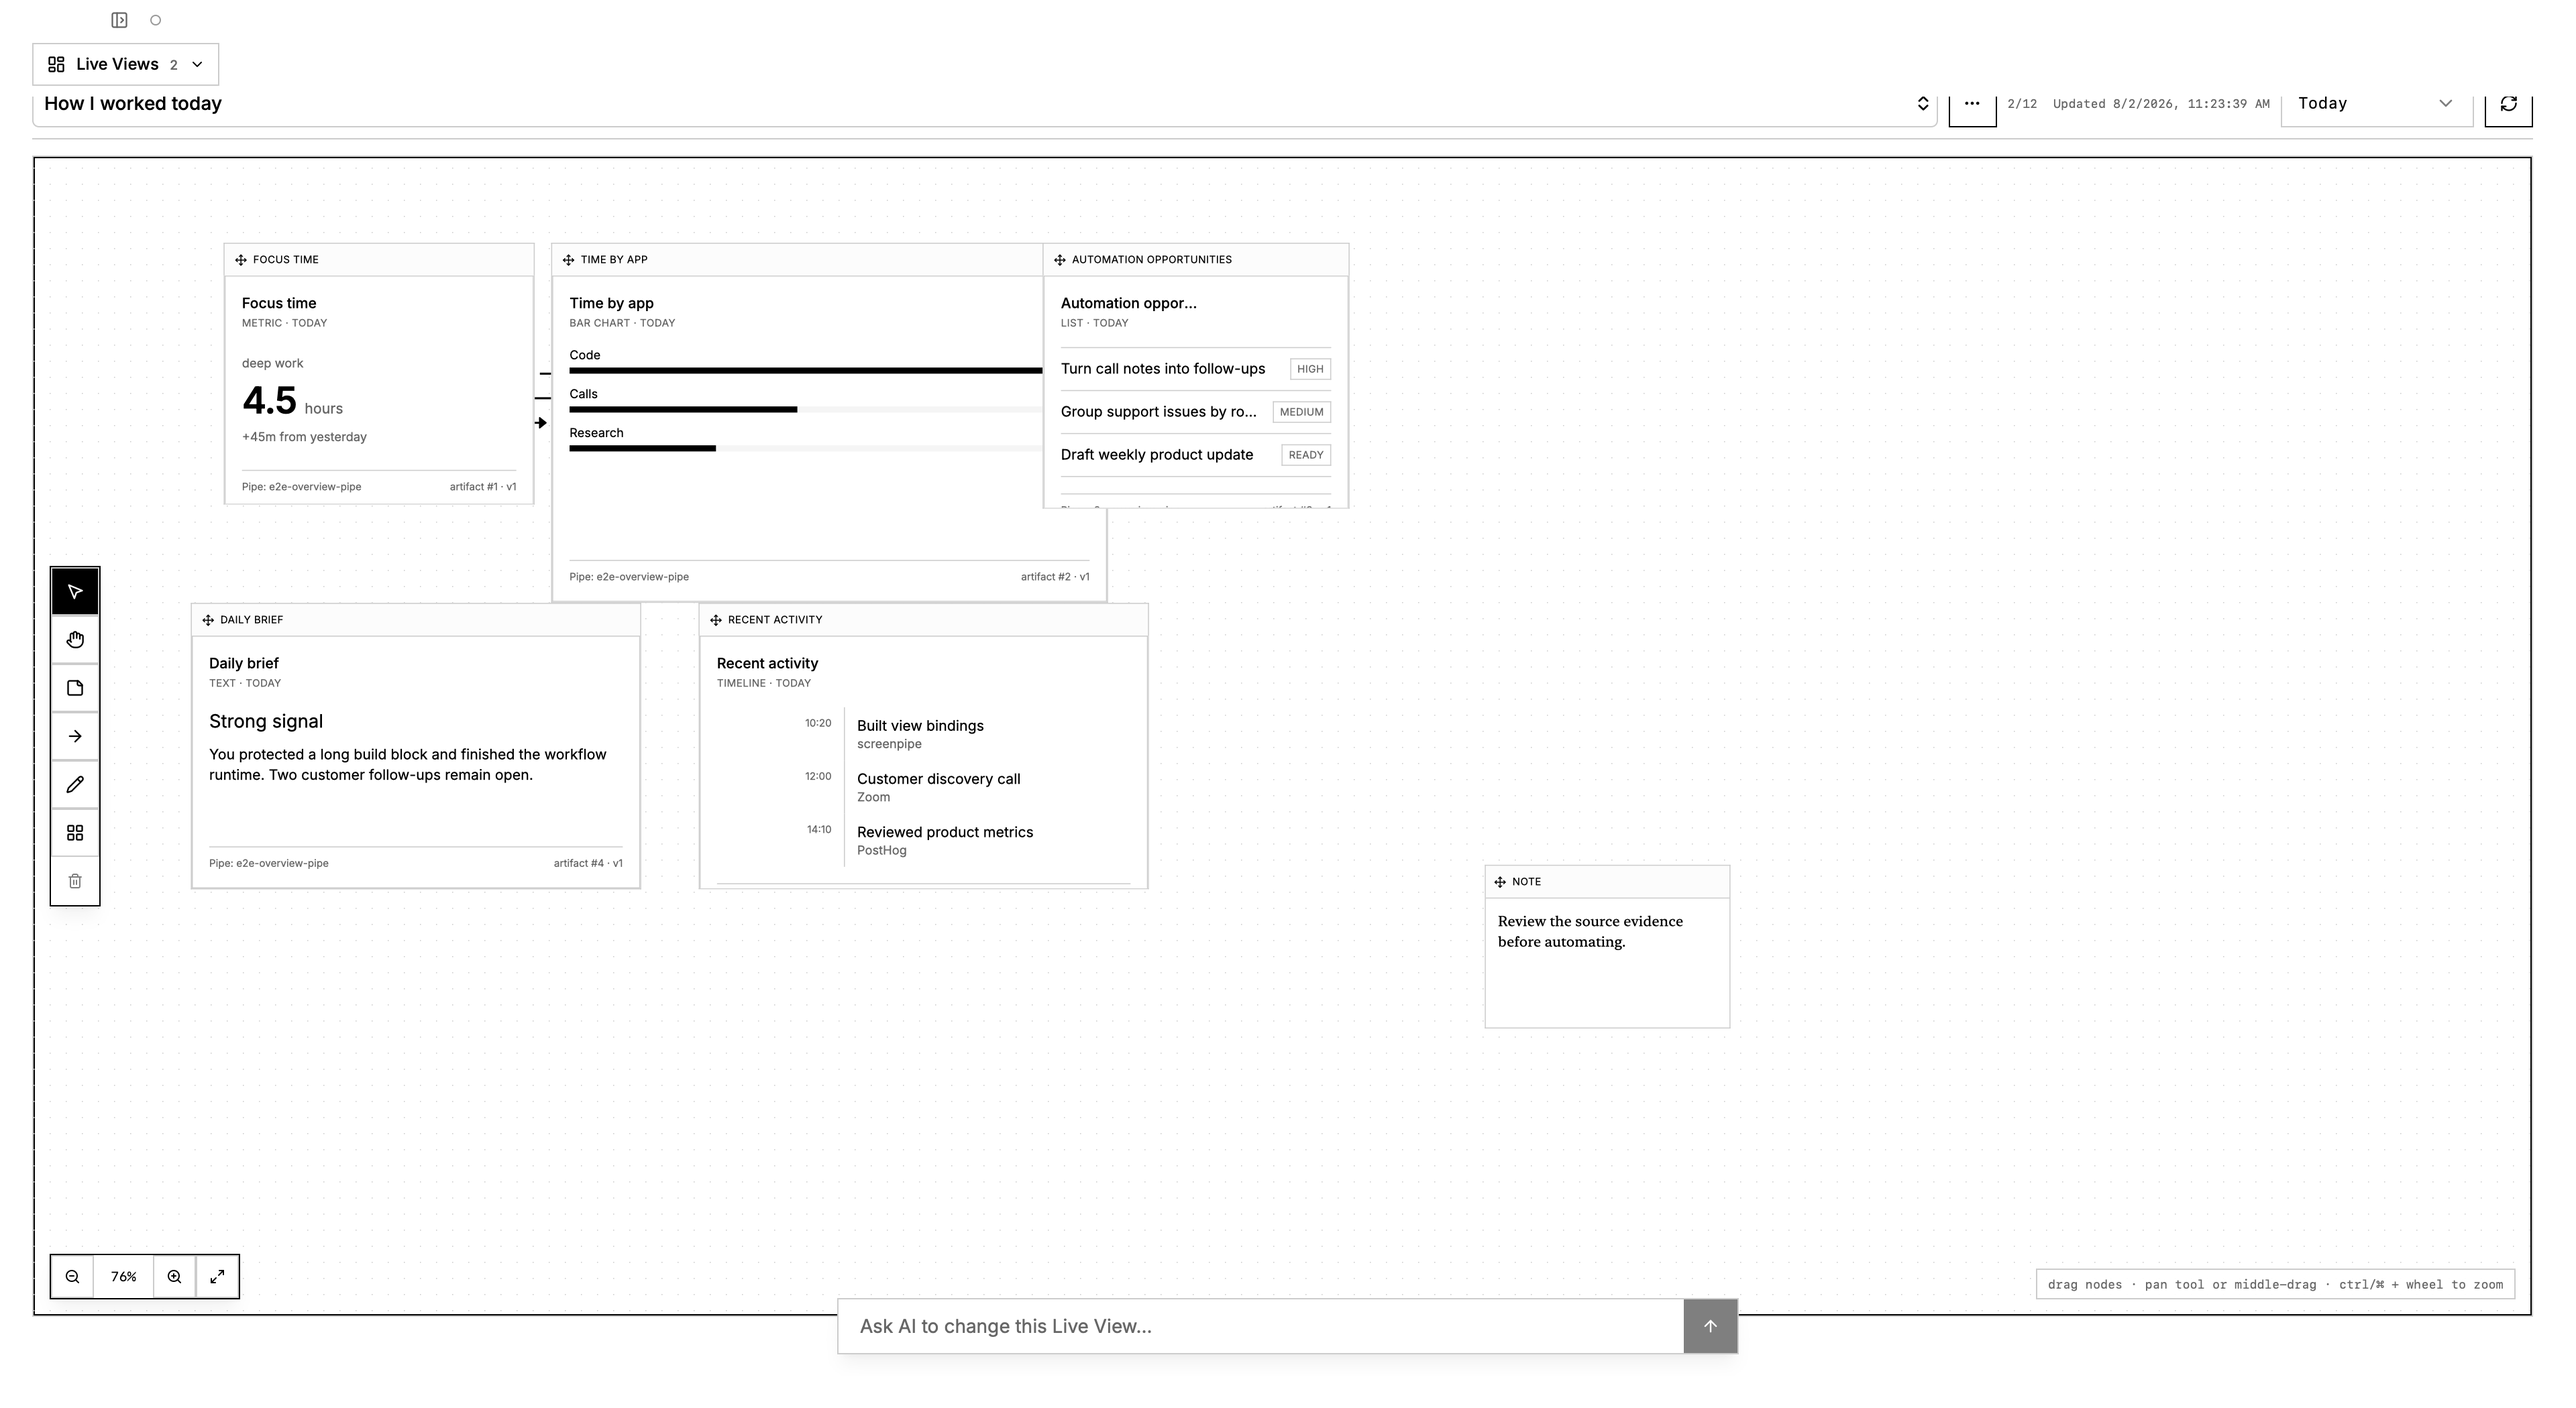
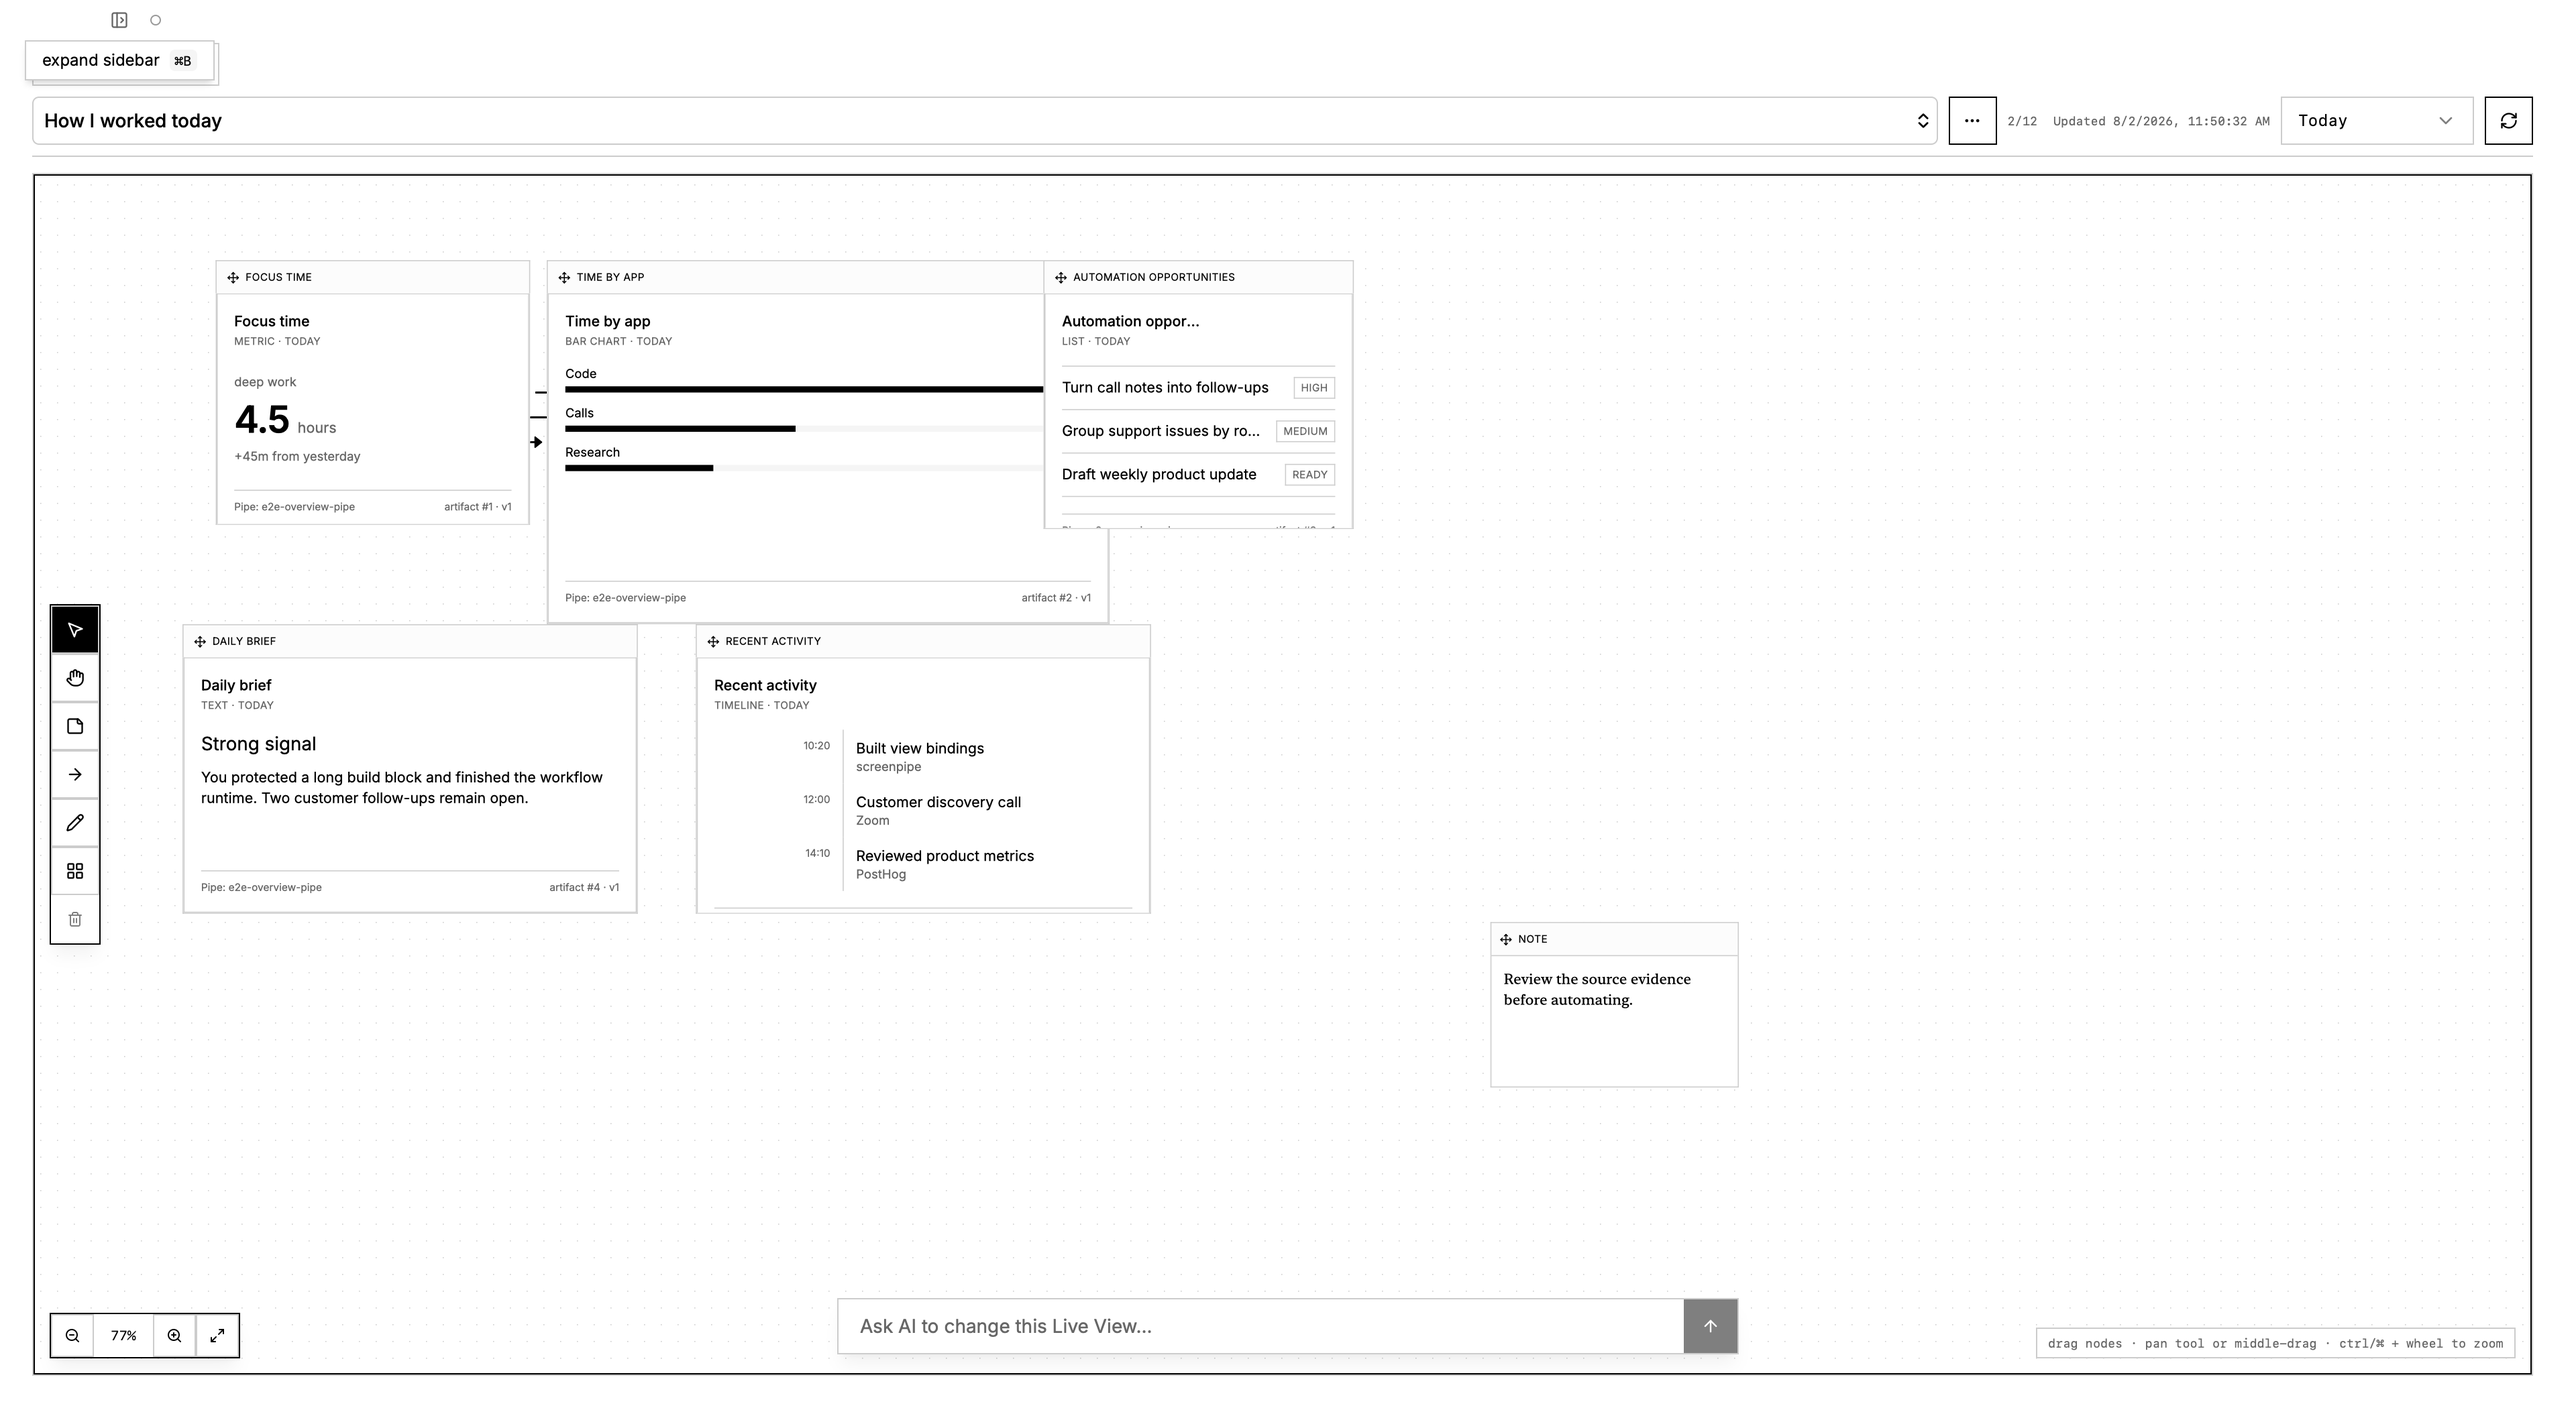
lock Live Views to the viewport

diff --git a/apps/screenpipe-app-tauri/e2e/specs/brain-overview.spec.ts b/apps/screenpipe-app-tauri/e2e/specs/brain-overview.spec.ts
@@ -602,8 +602,15 @@ Refresh the assigned Live View output targets from source-backed activity.
         const content = document.querySelector<HTMLElement>(
           "[data-testid='brain-content']",
         );
-        if (!section || !content) return null;
+        const overview = document.querySelector<HTMLElement>(
+          "[data-testid='brain-overview-scroll']",
+        );
+        const canvas = document.querySelector<HTMLElement>(
+          "[data-testid='live-view-canvas']",
+        );
+        if (!section || !content || !overview || !canvas) return null;
         const sectionRect = section.getBoundingClientRect();
+        const canvasRect = canvas.getBoundingClientRect();
         const firstContentTop =
           content.firstElementChild?.getBoundingClientRect().top ?? 0;
         const visibleControls = Array.from(
@@ -624,8 +631,14 @@ Refresh the assigned Live View output targets from source-backed activity.
         return {
           viewportWidth: document.documentElement.clientWidth,
           documentWidth: document.documentElement.scrollWidth,
+          viewportHeight: document.documentElement.clientHeight,
+          documentHeight: document.documentElement.scrollHeight,
           sectionLeft: sectionRect.left,
           sectionRight: sectionRect.right,
+          sectionBottom: sectionRect.bottom,
+          canvasBottom: canvasRect.bottom,
+          canvasHeight: canvasRect.height,
+          overviewOverflowY: getComputedStyle(overview).overflowY,
           firstContentTop,
           clippedControls: visibleControls
             .filter((element) => {
@@ -653,8 +666,14 @@ Refresh the assigned Live View output targets from source-backed activity.
       })) as {
         viewportWidth: number;
         documentWidth: number;
+        viewportHeight: number;
+        documentHeight: number;
         sectionLeft: number;
         sectionRight: number;
+        sectionBottom: number;
+        canvasBottom: number;
+        canvasHeight: number;
+        overviewOverflowY: string;
         firstContentTop: number;
         clippedControls: Array<{
           label: string;
@@ -673,6 +692,14 @@ Refresh the assigned Live View output targets from source-backed activity.
       expect(layout!.documentWidth).toBeLessThanOrEqual(
         layout!.viewportWidth + 1,
       );
+      expect(layout!.documentHeight).toBeLessThanOrEqual(
+        layout!.viewportHeight + 1,
+      );
+      expect(layout!.overviewOverflowY).toBe("hidden");
+      expect(layout!.canvasBottom).toBeLessThanOrEqual(
+        layout!.sectionBottom + 1,
+      );
+      expect(layout!.canvasHeight).toBeGreaterThan(200);
       expect(layout!.clippedControls).toEqual([]);
       if (size.label === "minimum") {
         await saveScreenshot("brain-overview-minimum-window");
@@ -905,7 +932,6 @@ Refresh the assigned Live View output targets from source-backed activity.
 
     for (const size of [SUPPORTED_WINDOW_SIZES[0], SUPPORTED_WINDOW_SIZES[5]]) {
       await setCssWindowSize(size.width, size.height);
-      await canvas.scrollIntoView();
       await browser.pause(150);
       const canvasLayout = (await browser.execute(() => {
         const canvasElement = document.querySelector<HTMLElement>(

diff --git a/apps/screenpipe-app-tauri/components/settings/brain-overview.tsx b/apps/screenpipe-app-tauri/components/settings/brain-overview.tsx
@@ -2571,14 +2571,14 @@ export function BrainOverview({
   );
   const onboardingColdStart = showOnboardingActivation && !onboardingHasResult;
   return (
-    <div className="relative min-h-0 flex-1 overflow-hidden">
+    <div className="relative flex min-h-0 flex-1 overflow-hidden">
       <div
         data-testid="brain-overview-scroll"
-        className="h-full overflow-y-auto pb-24 pr-2 [scrollbar-gutter:stable]"
+        className="flex h-full min-h-0 w-full flex-col overflow-hidden pr-2"
       >
         <div
           data-onboarding-guide-target="dashboard"
-          className="mb-3 flex flex-col gap-2 border-b border-border pb-2 lg:flex-row lg:items-center lg:justify-between"
+          className="mb-3 flex shrink-0 flex-col gap-2 border-b border-border pb-2 lg:flex-row lg:items-center lg:justify-between"
         >
           <div className="flex min-w-0 flex-1 flex-col gap-1 sm:flex-row sm:items-center sm:gap-3">
           <LiveViewDashboardSwitcher
@@ -2685,7 +2685,7 @@ export function BrainOverview({
         </p>
       )}
       {templateGalleryOpen && !onboardingColdStart && (
-        <div className="relative mb-5 border border-border p-4 pr-12">
+        <div className="relative mb-5 max-h-[min(50vh,32rem)] shrink-0 overflow-y-auto border border-border p-4 pr-12">
           <Button
             aria-label="close templates"
             variant="ghost"
@@ -2766,7 +2766,7 @@ export function BrainOverview({
       !onboardingHasResult ? null : slots.length === 0 ? (
         <button
           type="button"
-          className="flex min-h-48 w-full items-center justify-center border border-dashed border-border text-xs text-muted-foreground hover:text-foreground"
+          className="flex min-h-0 w-full flex-1 items-center justify-center border border-dashed border-border text-xs text-muted-foreground hover:text-foreground"
           onClick={beginEdit}
         >
           add your first Block
@@ -2790,7 +2790,7 @@ export function BrainOverview({
       ) : canvasLoading ? (
         <div
           data-testid="live-view-canvas-loading"
-          className="flex min-h-[480px] items-center justify-center border border-border font-mono text-[10px] uppercase tracking-wide text-muted-foreground"
+          className="flex min-h-0 flex-1 items-center justify-center border border-border font-mono text-[10px] uppercase tracking-wide text-muted-foreground"
         >
           loading process map
         </div>

diff --git a/apps/screenpipe-app-tauri/components/settings/__tests__/brain-overview.test.tsx b/apps/screenpipe-app-tauri/components/settings/__tests__/brain-overview.test.tsx
@@ -873,8 +873,11 @@ describe("BrainOverview", () => {
     );
     expect(screen.getByTestId("overview-refresh-data").textContent).toBe("");
     expect(screen.queryByTestId("overview-edit")).toBeNull();
-    expect(screen.getByTestId("brain-overview-scroll").className).toContain(
-      "pb-24",
+    const overviewShell = screen.getByTestId("brain-overview-scroll");
+    expect(overviewShell.className).toContain("overflow-hidden");
+    expect(overviewShell.className).not.toContain("overflow-y-auto");
+    expect(screen.getByTestId("live-view-canvas").className).toContain(
+      "flex-1",
     );
     expect(
       screen.getByTestId("overview-floating-composer").className,

diff --git a/apps/screenpipe-app-tauri/components/settings/live-view-canvas.tsx b/apps/screenpipe-app-tauri/components/settings/live-view-canvas.tsx
@@ -1095,7 +1095,7 @@ export function LiveViewCanvas({
   return (
     <section
       data-testid="live-view-canvas"
-      className="relative h-[calc(100vh-11.5rem)] min-h-[480px] w-full overflow-hidden border border-border bg-background"
+      className="relative min-h-0 w-full flex-1 overflow-hidden border border-border bg-background"
       aria-label="Live View process canvas"
     >
       <div
